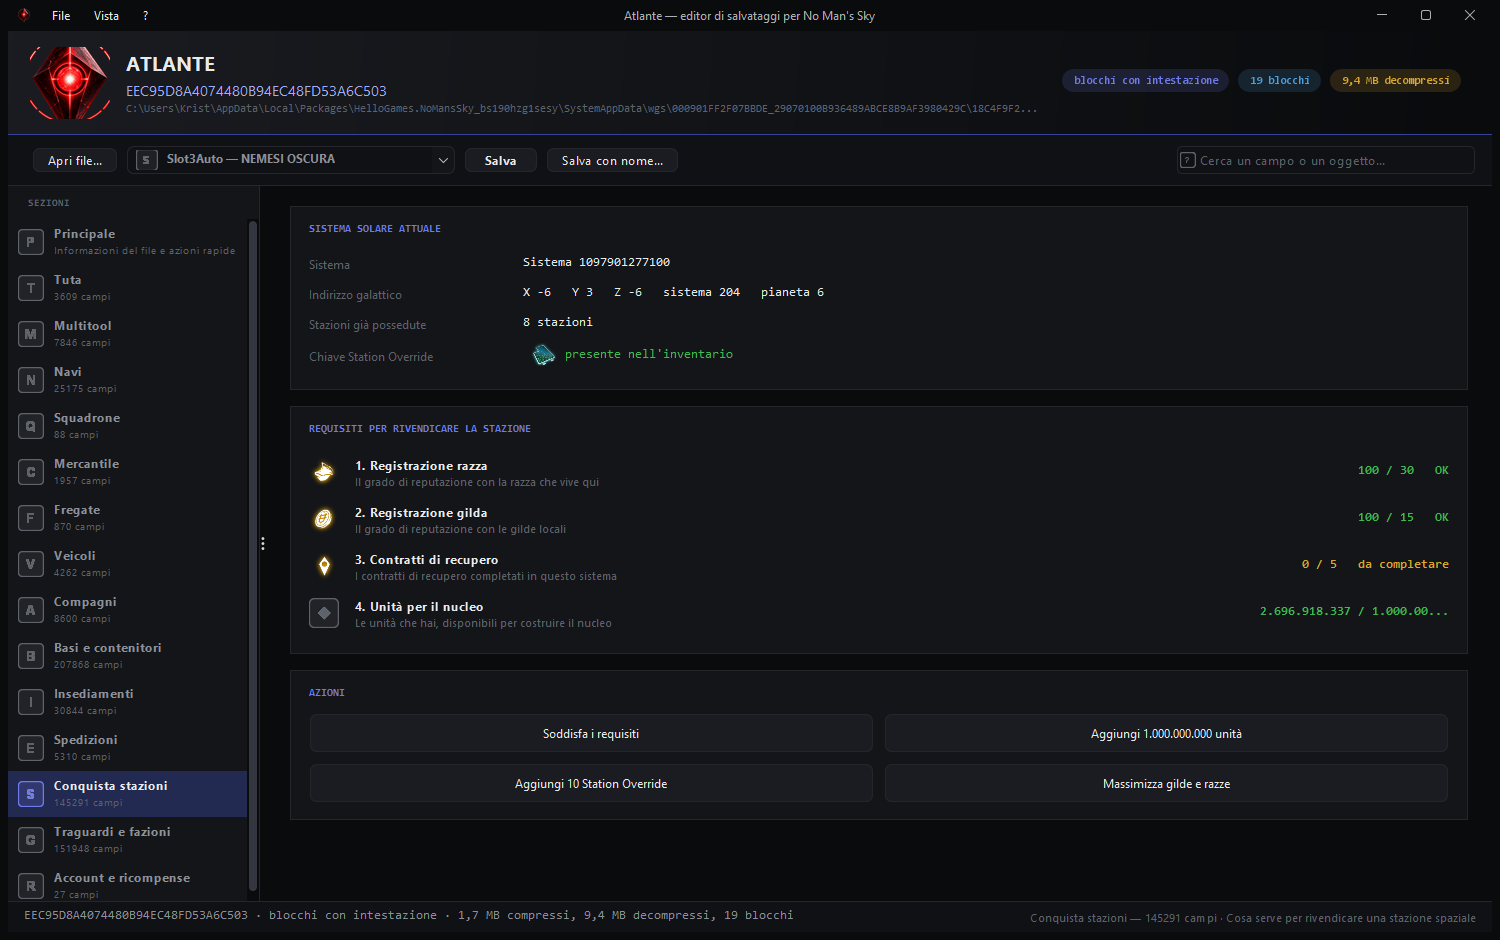
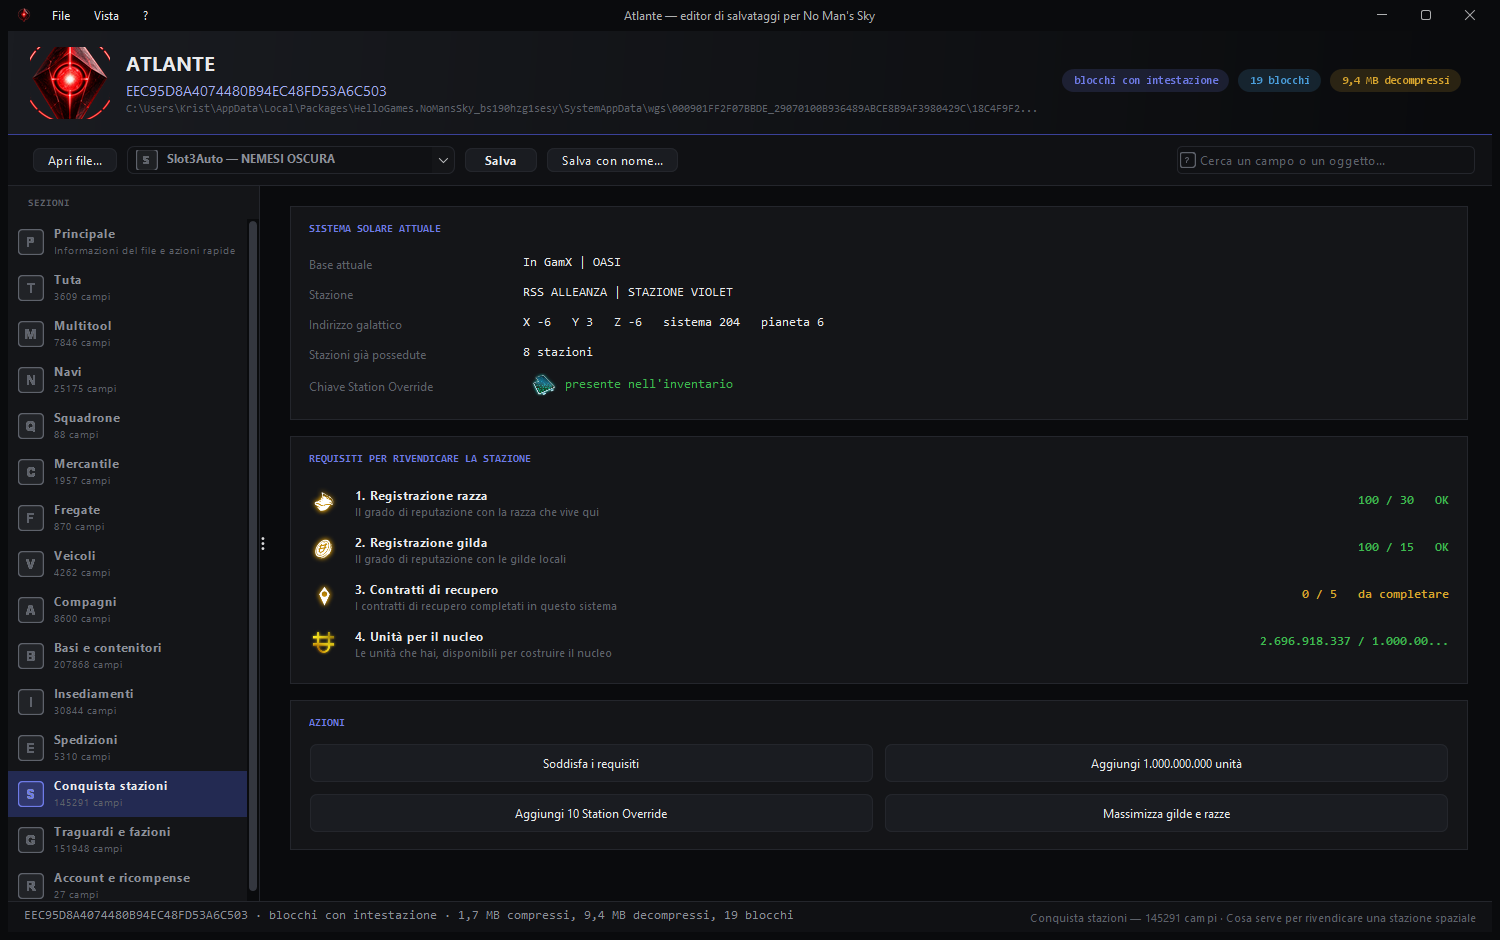
Conquista stazioni: icona delle unita', nome della stazione, etichetta corretta
Tre correzioni chieste da Sbri.

1. L'icona delle unita' mancava: usavo PRODUCT-SPECIAL, che non esiste.
   Quella vera e' SUBSTANCE-UNITS.PNG.

2. Il nome della stazione non c'era. Si ricava dalle basi permanenti:
   quella di tipo PlayerSpaceStationBase ha il nome che il gioco le ha
   dato. Sul suo salvataggio: "RSS ALLEANZA | STAZIONE VIOLET".

3. ETICHETTA SBAGLIATA, corretta: SaveSummary NON e' il nome del sistema.
   Contiene "In GamX | OASI", che e' il nome della BASE del giocatore.
   Il vecchio editor lo presenta come "Sistema Solare Corrente" e sbaglia.
   Ora la riga dice "Base attuale".
   Il nome del sistema non e' nel salvataggio: i nomi scoperti stanno in
   DiscoveryManagerData, che in questo file e' vuoto.

Le unita' sono un intero senza segno a 32 bit: 2.696.918.337, non un
numero negativo.

diff --git a/src/it/atlante/finestra/PannelloStazioni.java b/src/it/atlante/finestra/PannelloStazioni.java
@@ -87,7 +87,7 @@ public final class PannelloStazioni extends JPanel {
             new Requisito("3. Contratti di recupero", "I contratti di recupero completati in questo sistema",
                     "UI-MILESTONES", 5, false, "^SP_POI_MISSIONS"),
             new Requisito("4. Unità per il nucleo", "Le unità che hai, disponibili per costruire il nucleo",
-                    "PRODUCT-SPECIAL", 1000000000, true, "Units"),
+                    "SUBSTANCE-UNITS", 1000000000, true, "Units"),
     };
 
     private final Catalogo catalogo;
@@ -96,6 +96,7 @@ public final class PannelloStazioni extends JPanel {
 
     private final JPanel contenitore = new Colonna();
     private final JLabel sistema = new JLabel("—");
+    private final JLabel stazione = new JLabel("—");
     private final JLabel indirizzo = new JLabel("—");
     private final JLabel possedute = new JLabel("—");
     private final JLabel chiave = new JLabel("—");
@@ -194,7 +195,8 @@ public final class PannelloStazioni extends JPanel {
         righe.setOpaque(false);
         sistema.setFont(sistema.getFont().deriveFont(Font.BOLD, 15f));
         sistema.setForeground(Aspetto.TESTO);
-        riga(righe, "Sistema", sistema);
+        riga(righe, "Base attuale", sistema);
+        riga(righe, "Stazione", stazione);
         riga(righe, "Indirizzo galattico", indirizzo);
         riga(righe, "Stazioni già possedute", possedute);
 
@@ -315,7 +317,21 @@ public final class PannelloStazioni extends JPanel {
             }
         }
         indirizzo.setText(indirizzoTesto);
-        sistema.setText("Sistema " + intero(indirizzoDi(ua)));
+        // SaveSummary e' il nome della BASE attuale, non del sistema: il campo
+        // si chiama "riassunto" ma contiene una stringa come "In GamX | OASI",
+        // che e' il nome che il giocatore ha dato alla sua base.
+        // Il vecchio editor lo presenta come "Sistema Solare Corrente" e sbaglia.
+        // Il nome del sistema non e' nel salvataggio: i nomi scoperti stanno in
+        // DiscoveryManagerData, che in questo file e' vuoto.
+        Object riassunto = stato.get("SaveSummary");
+        String nomeBase = riassunto == null ? "" : String.valueOf(riassunto).trim();
+        sistema.setText(nomeBase.isEmpty() ? "(senza nome)" : nomeBase);
+
+        // La stazione: se tra le basi permanenti ce n'e' una di tipo stazione,
+        // il suo nome e' quello che il gioco le ha dato.
+        String nomeStazione = nomeStazione(stato);
+        stazione.setText(nomeStazione.isEmpty()
+                ? "nessuna stazione registrata in questo sistema" : nomeStazione);
 
         // --- valori delle statistiche ---
         possedute.setText(valoreDi(stato, "^STATIONS_OWNED") + " stazioni");
@@ -347,6 +363,36 @@ public final class PannelloStazioni extends JPanel {
     private String iconaDi(String id) {
         Catalogo.Voce v = catalogo.voce(id);
         return v == null ? null : v.icona;
+    }
+
+    /**
+     * Il nome della stazione, se il gioco ne ha registrata una.
+     *
+     * Le basi permanenti hanno un nome e un tipo. Una di tipo
+     * PlayerSpaceStationBase e' una stazione rivendicata: il suo nome e' quello
+     * che le e' stato dato.
+     */
+    @SuppressWarnings("unchecked")
+    private String nomeStazione(Map<String, Object> stato) {
+        Object basi = stato.get("PersistentPlayerBases");
+        if (!(basi instanceof List)) {
+            return "";
+        }
+        for (Object b : (List<Object>) basi) {
+            if (!(b instanceof Map)) {
+                continue;
+            }
+            Map<String, Object> base = (Map<String, Object>) b;
+            String tipo = String.valueOf(base.get("BaseType"));
+            if (!tipo.contains("Station")) {
+                continue;
+            }
+            Object nome = base.get("Name");
+            if (nome != null && !String.valueOf(nome).trim().isEmpty()) {
+                return String.valueOf(nome).trim();
+            }
+        }
+        return "";
     }
 
     private static Object statoDelGiocatore(Object radice) {
